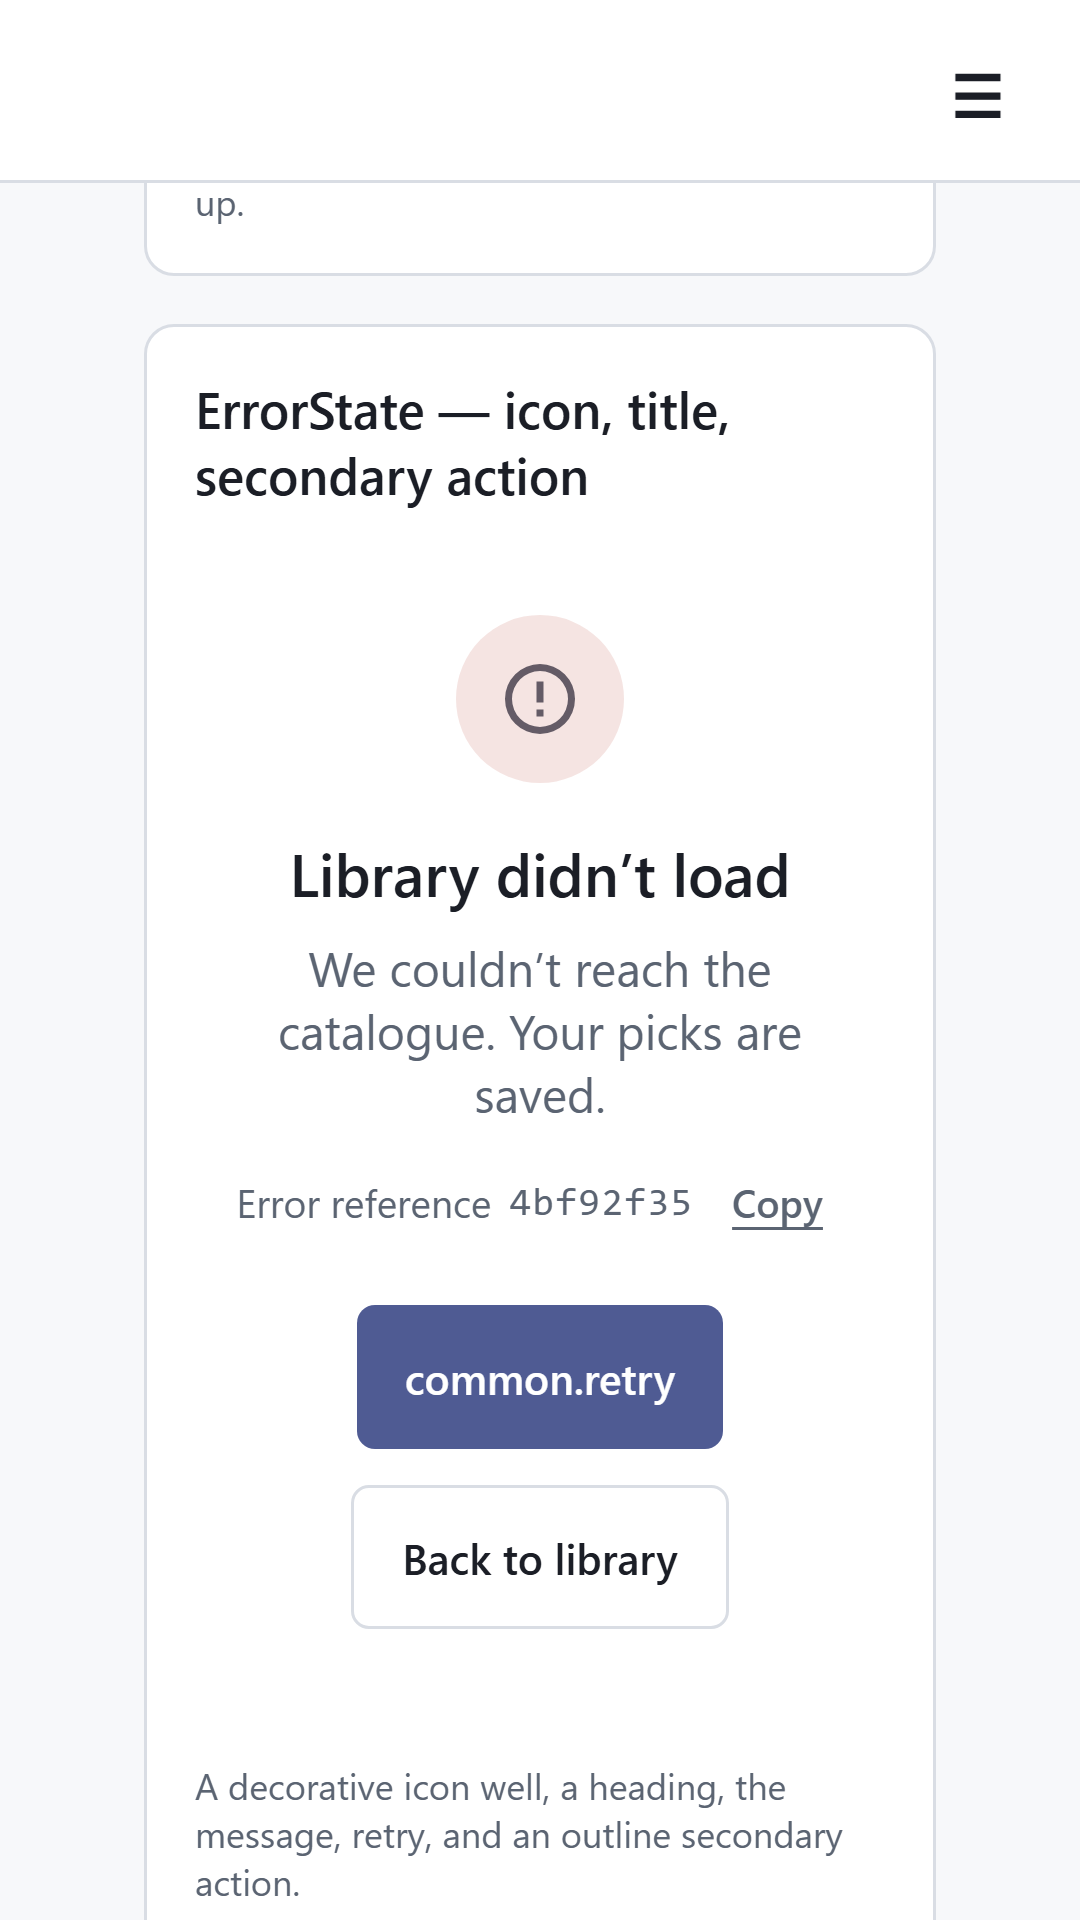
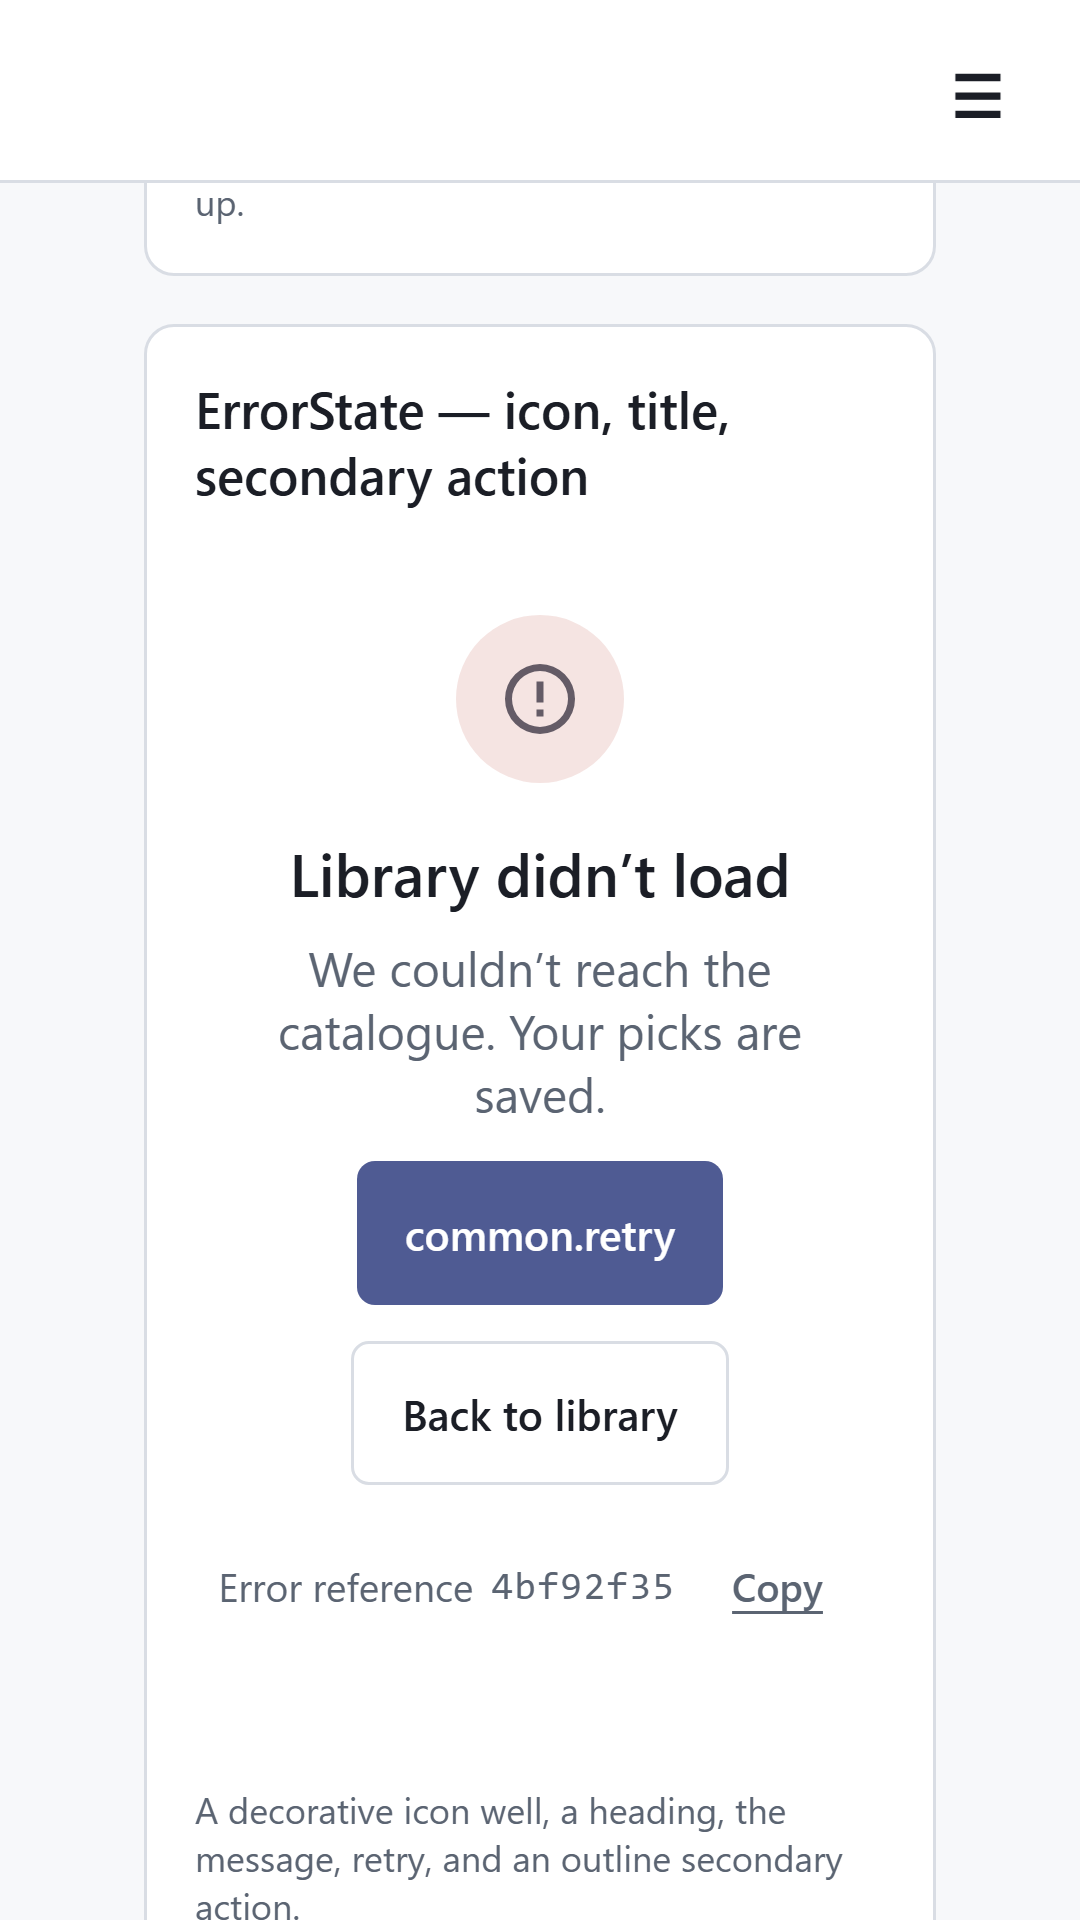
docs(design): OBS-1 W13-errref "Error reference placement" round 2: critic fixes, discoverRows on every frame
visual-review: docs/design/W13-errref/critique-2026-10-28-critic.md

diff --git a/docs/design/W13-errref/index.html b/docs/design/W13-errref/index.html
@@ -119,7 +119,7 @@ figcaption b{color:var(--ink)}
 
 <section class="opt" data-option="A" data-inventory="6/6" data-aligned="pass" data-result="result.json">
 <h2>A. Every error message</h2>
-<p class="says">Reference under the message on full-page errors, with Copy; a second line in error toasts.</p>
+<p class="says">Reference row below Retry and Back to library on full-page errors, with Copy; a second line in error toasts.</p>
 <p class="meta">Inventory 6/6 visible · no form rows · pairs same-steps</p>
 <div class="shot"><h3>Full-page error, 360x640</h3><div class="pair mob"><figure data-visual="before"><img src="img/before/A-page-360x640.png" alt="Today: error state, no reference" loading="lazy"><figcaption><b>Before</b> today</figcaption></figure><figure data-visual="after"><img src="img/after/A-page-360x640.png" alt="Option A: error state with reference and Copy" loading="lazy"><figcaption><b>After</b> option A</figcaption></figure></div></div>
 <div class="shot"><h3>Error toast, 360x640</h3><div class="pair mob"><figure><img src="img/before/A-toast-360x640.png" alt="Today: error toast" loading="lazy"><figcaption><b>Before</b></figcaption></figure><figure><img src="img/after/A-toast-360x640.png" alt="Option A: error toast with reference line" loading="lazy"><figcaption><b>After</b></figcaption></figure></div></div>
@@ -129,7 +129,7 @@ figcaption b{color:var(--ink)}
 
 <section class="opt" data-option="B" data-inventory="6/6" data-aligned="pass" data-result="result.json">
 <h2>B. Full-page errors only</h2>
-<p class="says">Reference and Copy on full-page error states; toasts unchanged.</p>
+<p class="says">Reference row with Copy below the actions on full-page error states; toasts unchanged.</p>
 <p class="meta">Inventory 6/6 visible · no form rows · pairs same-steps</p>
 <div class="shot"><h3>Full-page error, 360x640</h3><div class="pair mob"><figure data-visual="before"><img src="img/before/B-page-360x640.png" alt="Today: error state" loading="lazy"><figcaption><b>Before</b> today</figcaption></figure><figure data-visual="after"><img src="img/after/B-page-360x640.png" alt="Option B: error state with reference" loading="lazy"><figcaption><b>After</b> option B</figcaption></figure></div></div>
 <div class="shot"><h3>Error toast, 360x640</h3><div class="pair mob"><figure><img src="img/before/B-toast-360x640.png" alt="Today: error toast" loading="lazy"><figcaption><b>Before</b></figcaption></figure><figure><img src="img/after/B-toast-360x640.png" alt="Option B: toast unchanged" loading="lazy"><figcaption><b>After</b> (unchanged)</figcaption></figure></div></div>

diff --git a/docs/design/W13-errref/critique-2026-10-28-critic.md b/docs/design/W13-errref/critique-2026-10-28-critic.md
@@ -1,0 +1,71 @@
+# W13-errref "Error reference placement" — design-critic sheet (2026-10-28)
+
+Task: OBS-1 "Every app ships metrics, production-grade logs and alerts with working links", job W13-errref.
+Page: https://claude.ai/artifact/JG2fCLenm98tcyHN87hLa2 (source `index.html` beside this file).
+Judged from the 24 PNGs in `img/` (360x640 at DPR 3 = 1080x1920, 1280x800 at DPR 1) and `result.json`. Blind to the
+designer's round-1 sheet scores; that sheet was written by the designer itself, so this is the first independent round.
+
+## Hard fails (checked first)
+
+| Check | A | B | C |
+|---|---|---|---|
+| 1 Lost item (6 rows: page icon/title/message/Retry/Back, toast message) | none, 6/6 visible in every after frame | none, 6/6 | none, 6/6 |
+| 2 Misaligned row | Retry + Back at 1280: both 524-571 px, 0 px off. Ref row label/id/Copy glyph tops 1188-1190 dev px at 360 (under 1 css px) | same frames as A (page afters byte-identical) | no new row; existing Retry + Back 0 px off |
+| 3 Pair parity | 12 records, all six pair keys equal per shot; befores byte-identical across A/B/C | same | same |
+
+No hard fail. No `WITHDRAW`.
+
+**Evidence defect in A (not a hard fail, but A cannot be picked on it):** `after/A-toast-1280x800.png` differs from its
+before only inside the toast (diff bbox 384,89-896,143). The ErrorState card behind it still has message-to-Retry spacing
+of 22 px, i.e. **no error reference line**, while `after/A-page-1280x800.png` shows the line in that same card. Cause:
+`capture.cjs:110` injects only the toast on toast shots. The frame shows a half-A build, so the owner sees a screen that
+A would never produce. Recapture A toast shots with `injectPage` + `injectToast`.
+
+## Scores
+
+| # | Criterion | A every message | B full-page only | C hidden |
+|---|---|---|---|---|
+| 1 | Focal / purpose | 4: title stays focal; ref reads as secondary | 4: same page render as A | 4: unchanged |
+| 2 | Portability | 3: stock "Error reference + Copy" pattern | 3: same | 3: stock error state, untouched |
+| 3 | Hierarchy, type, spacing | 3: two type treatments for one thing (page: sans label + mono id; toast: whole line mono incl. label); ref sits between message and the primary action and pushes Retry down 48 css px at 360 | 4: one treatment; same wedge above Retry | 4: unchanged |
+| 4 | Visual language | 4: no new colour; ref text 5.98:1 on card, 5.35:1 on toast red | 4: 5.98:1 | 4 |
+| 5 | Taste ledger | 4: no `taste-ledger.md` exists for ui-feedback; judged against memory `user_design_taste.md` ("calm"); a toast growing a mono line is the least calm | 4 | 4: calmest |
+| 6 | No AI-default tells | 5 | 5 | 5 |
+| 7 | 360 + 1280, text fits | 3: fits both, but the 1280 toast frame does not render A (above); Copy hit box not measurable from pixels (glyph ~13 css px tall) | 4: fits both; Copy hit box unmeasured | 4: unchanged, fits |
+| 8 | Inventory k/n true on the picture | 5: 6/6 | 5: 6/6 | 5: 6/6 |
+| | **Mean / lowest** | **3.9 / #2,#3,#7=3** | **4.1 / #2=3** | **4.1 / #2=3** |
+| | **Verdict** | **REDO** (mean < 4; recapture) | **PASS** | **PASS** |
+
+Rank (independent scores): B = C > A. B and C tie on pixels; the difference between them (user can quote an id vs
+support searches Grafana by time and account) is a product call the owner makes, not a pixel call.
+
+## Top fixes
+
+**A**
+1. Recapture both A toast frames with the page injection too (`capture.cjs:110`), so the after is the whole A build.
+2. One type treatment: in the toast, "Error reference" in the body sans at the secondary size, only `4bf92f35` in mono, as on the page.
+3. Move the reference row below the Retry / Back row (footnote position, 12-16 px gap), so nothing sits between the message and the primary action.
+
+**B**
+1. Move the reference row below the Retry / Back row, same as A fix 3.
+2. Give Copy a 44x44 hit box (padding, not a larger glyph) and show "Copied" for 1.5 s in place of the label.
+
+**C**
+1. None on pixels. (No inventory item is touched by any fix above.)
+
+## rowsMethod (OPTION-GATE-1 requirement 9)
+
+Applies; the check is not a false positive. Requirement 9 exists to forbid exactly what `result.json` does: a hand
+assertion (`alignedNote: "no side-by-side form row on these screens"`) in place of rows discovered on every frame. These
+frames do contain side-by-side controls: Retry + Back at 1280 and, in A/B, the label / id / Copy row. Measured here
+they pass (0 px and under 1 css px), so `data-aligned="pass"` is true on the pixels; the JSON is wrong only on method.
+Fix: run `discoverRows` (kefi-web `docs/visual-review/lib/visible-in-frame.cjs`) in `capture.cjs` on every frame, record
+the rows found per frame, and declare `"rowsMethod": "auto"`.
+
+## Pre-existing, outside the options
+
+Retry renders the raw key `common.retry` in every before and after (ui-showcase translation gap); it predates this job.
+
+NOT COVERED: dark mode not captured; Copy hit box and "Copied" feedback not measured (pixels only); toast motion and
+dwell time not judged from stills; real device not used; 1280 desktop-wide layouts above 1280 not seen; long trace ids
+or long localized labels (TEXT-FIT-1 in other locales) not rendered.
